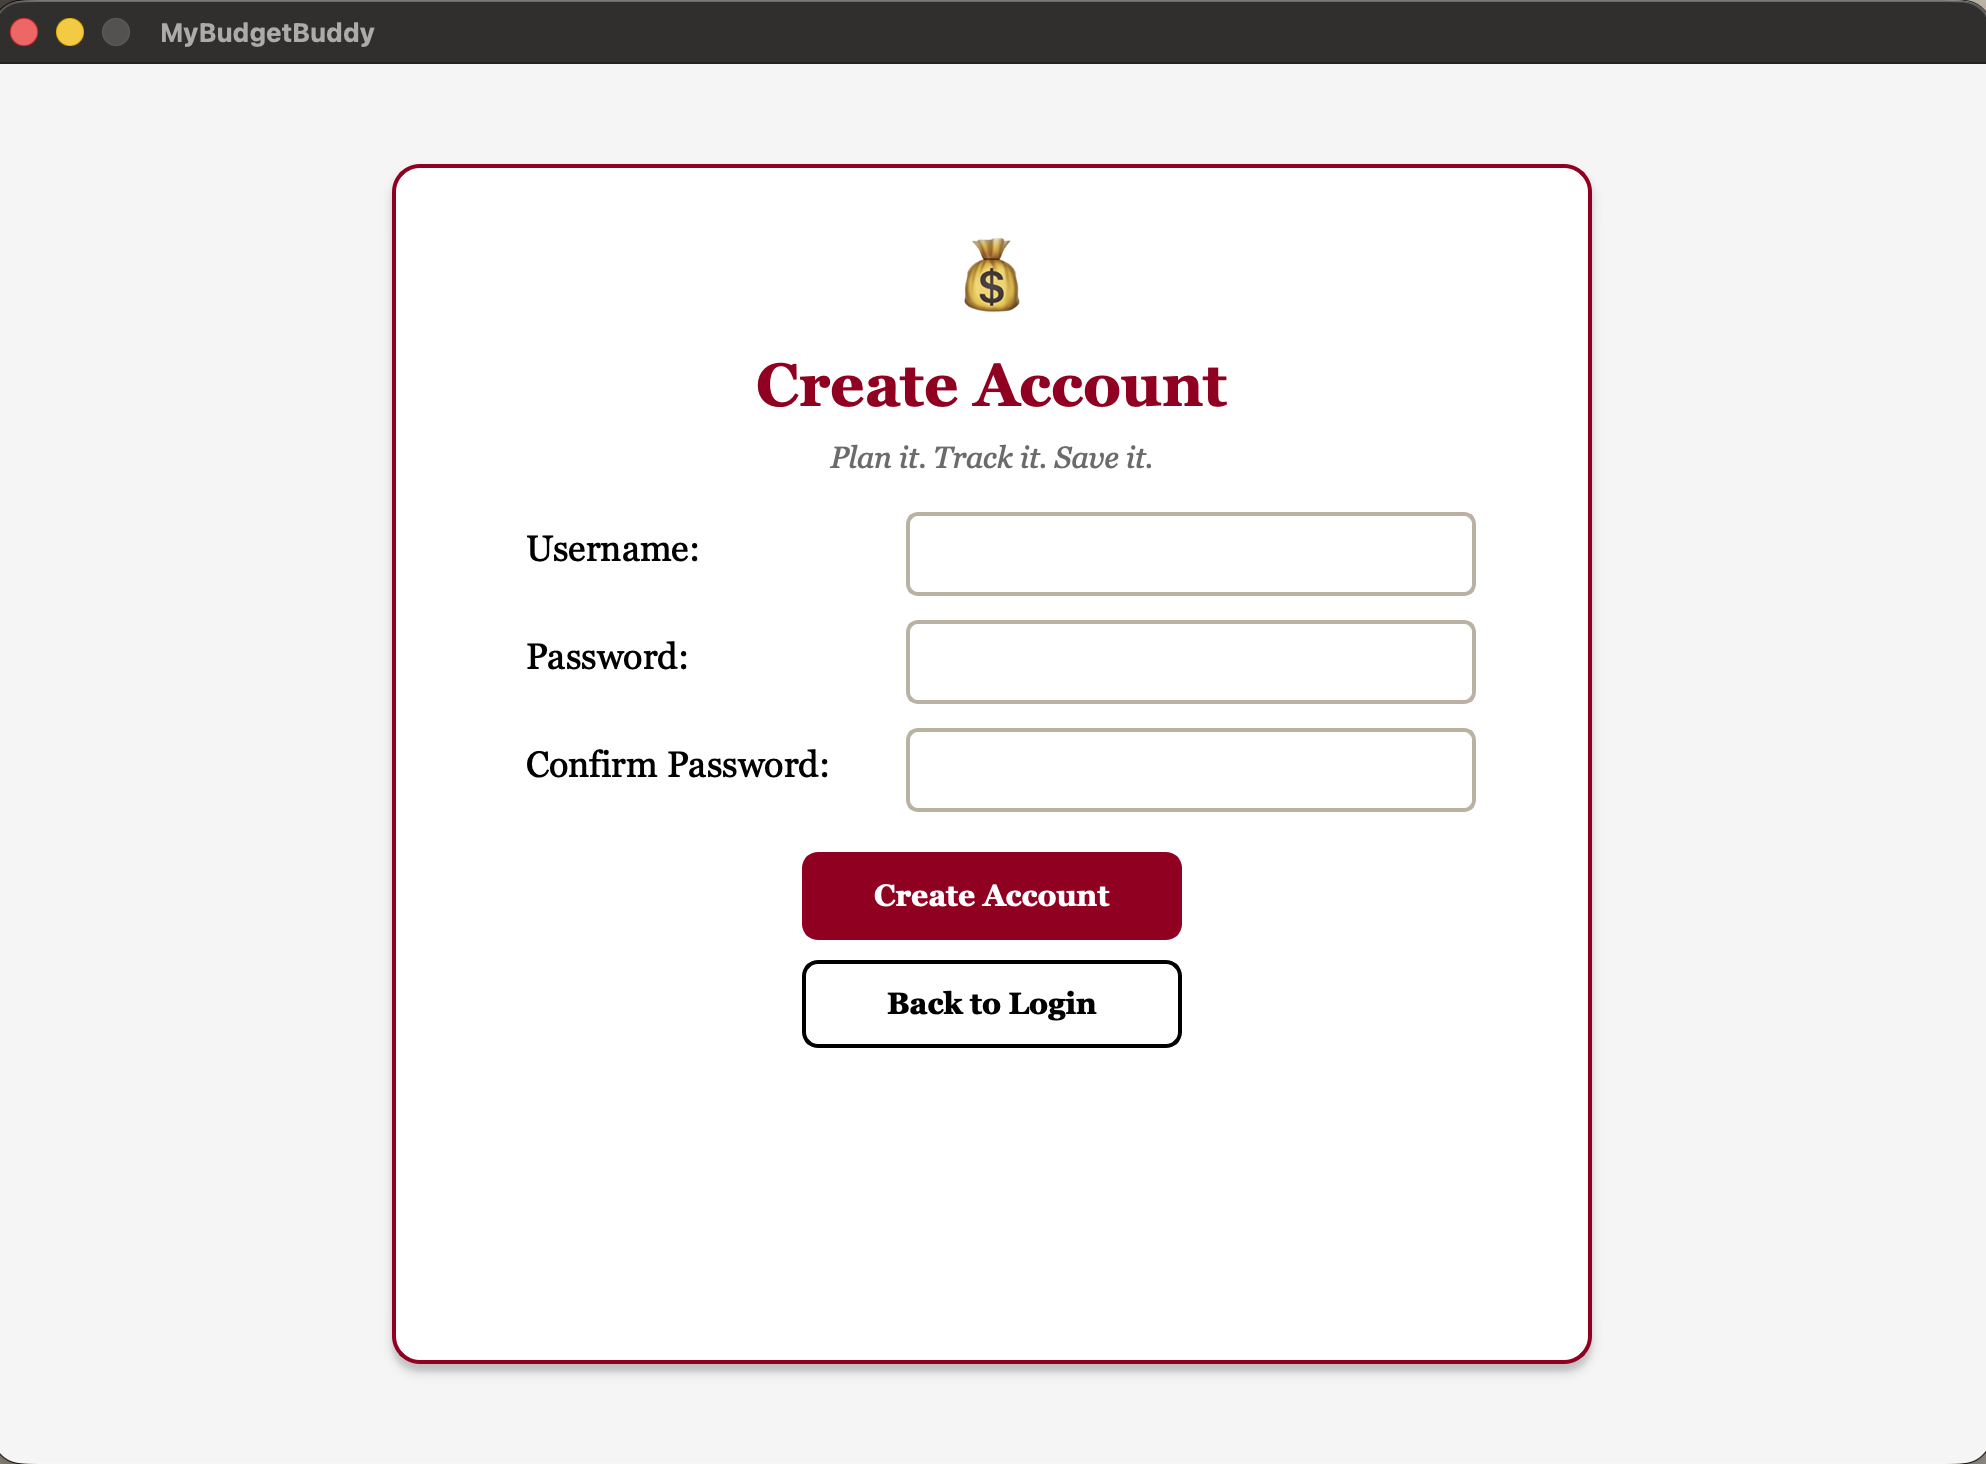
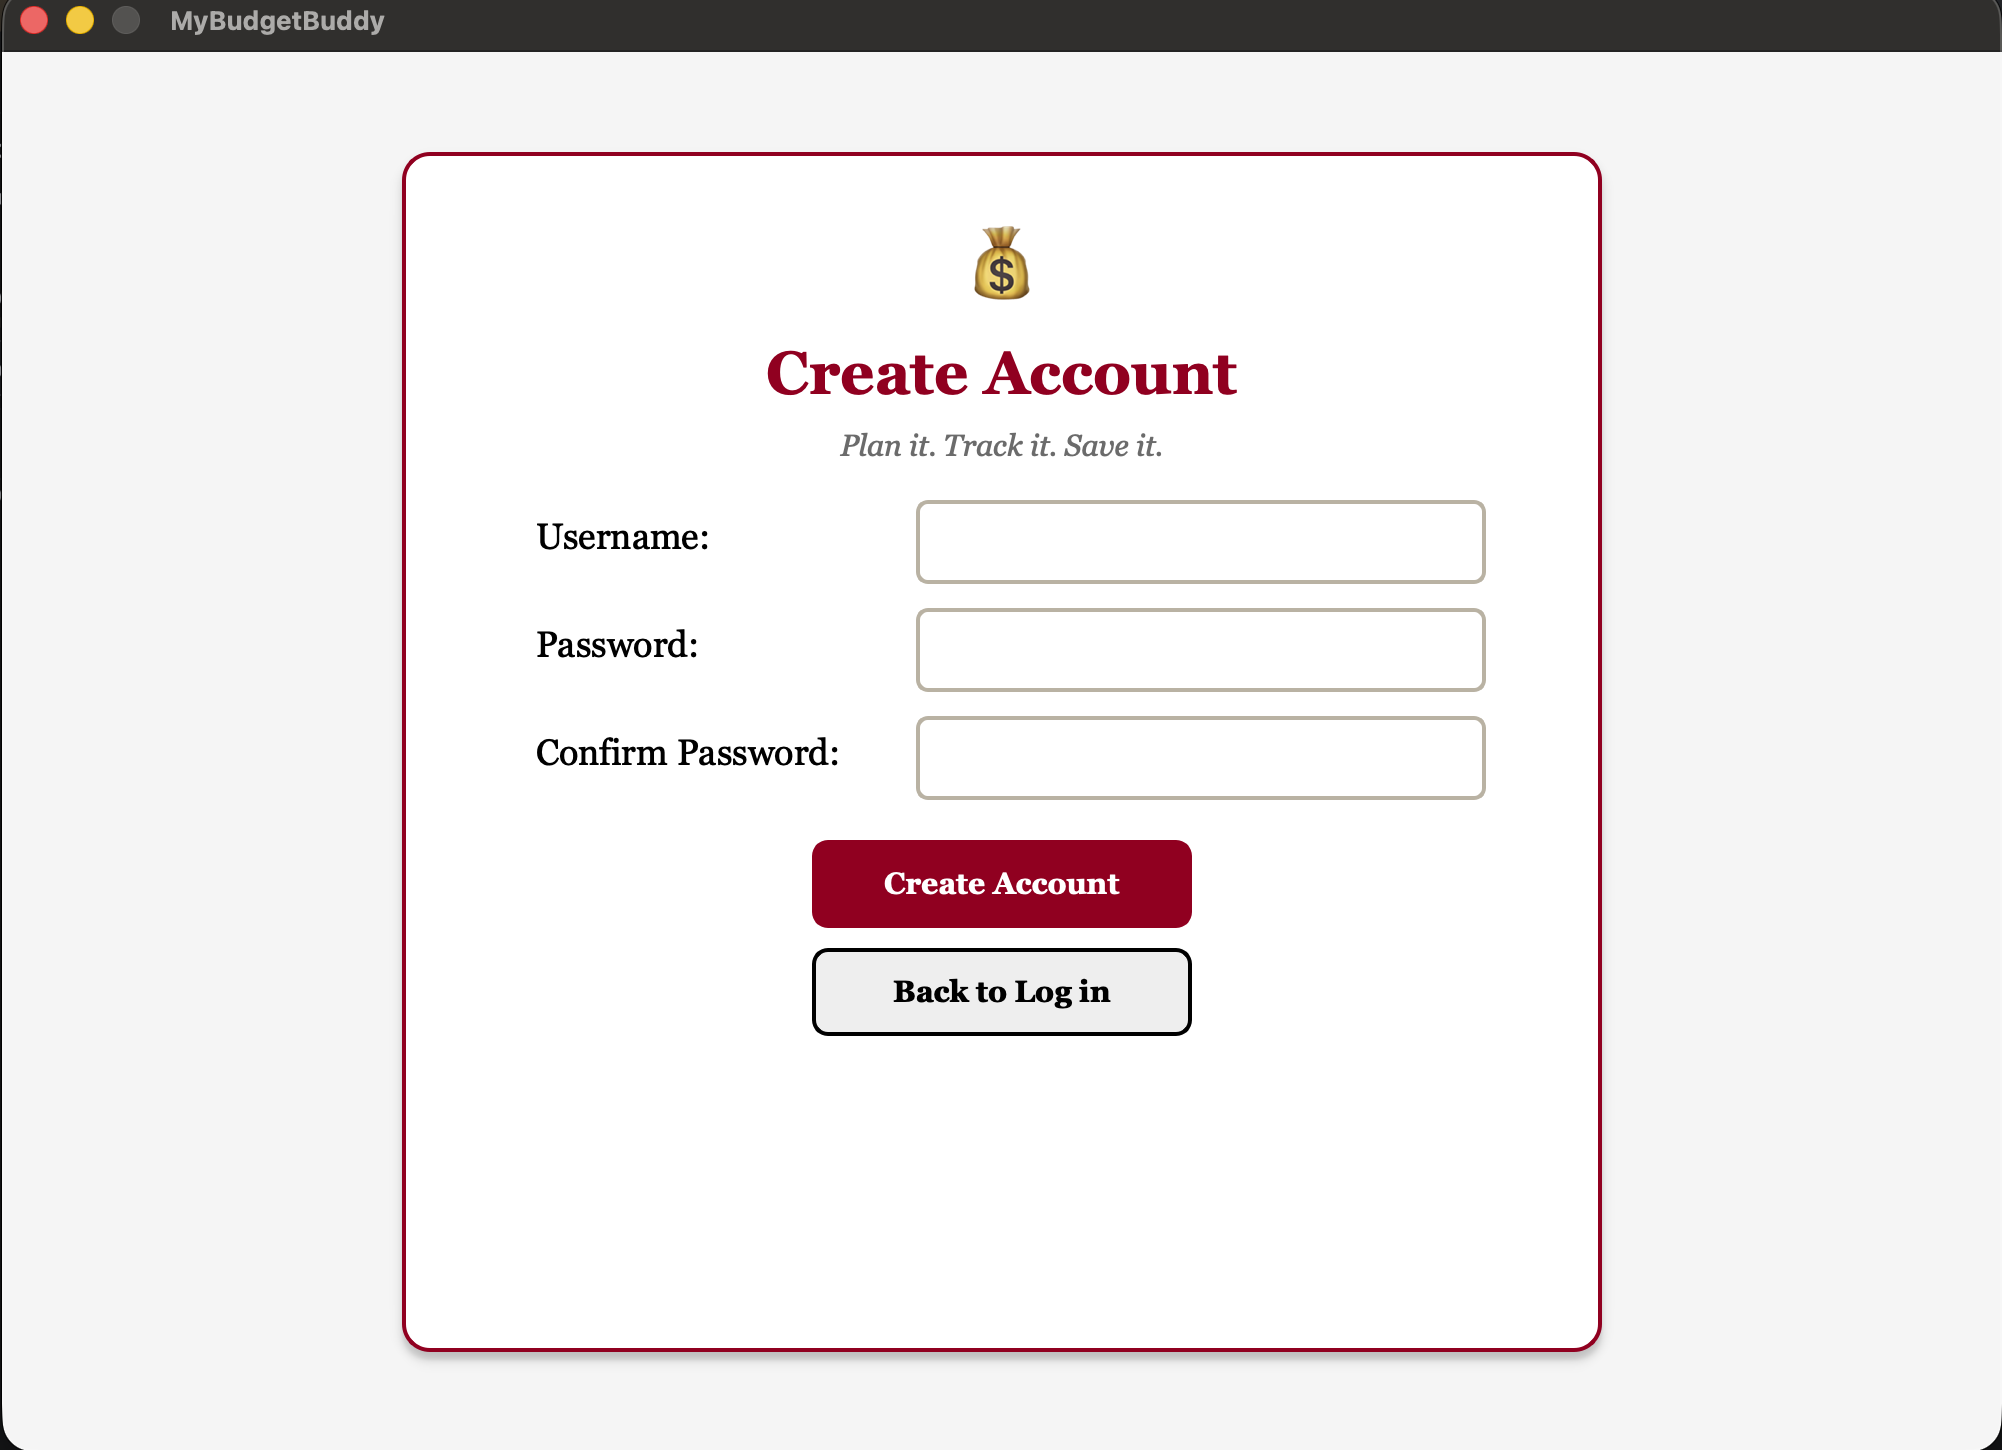
Update MyBudgetBuddy

diff --git a/mybudgetbuddy_qt/features/dashboard/view.py b/mybudgetbuddy_qt/features/dashboard/view.py
@@ -1,7 +1,8 @@
 from PyQt6.QtWidgets import (
     QMainWindow, QWidget, QVBoxLayout, QHBoxLayout, QLabel, QPushButton,
-    QFrame, QMessageBox, QDialog, QScrollArea, QProgressBar
+    QFrame, QMessageBox, QDialog, QScrollArea, QProgressBar, QGraphicsDropShadowEffect
 )
+from PyQt6.QtGui import QColor
 from PyQt6.QtCore import Qt
 
 from database.database import load_user_data, save_user_data
@@ -13,7 +14,7 @@ from features.expenses.service import add_expense, total, category_totals
 from features.expenses.view import ExpenseFormDialog, ExpenseEditDialog, ExpenseListDialog
 
 BURGUNDY, GOLD, CREAM, BG, WHITE, BLACK = "#900020", "#C9A227", "#FFF9EC", "#F5F5F5", "#FFFFFF", "#000000"
-RED, GREEN, ORANGE, GRAY, LINE = "#B42318", "#2E7D32", "#E08A00", "#6B6B6B", "#D8D0BE"
+RED, GREEN, ORANGE, GRAY, LINE, EDGE = "#B42318", "#2E7D32", "#E08A00", "#6B6B6B", "#D8D0BE", "#E8DFCB"
 FONT = "'Georgia'"
 NUMBER_WIDTH = 105
 BAR_WIDTH = 90
@@ -28,8 +29,8 @@ def usage_color(ratio):
 
 def menu_button_style():
     return f"""
-        QPushButton {{ background:{WHITE}; color:{BLACK}; border:2px solid {BURGUNDY}; border-left:8px solid {BURGUNDY}; border-radius:8px; font-family:{FONT}; font-size:16px; text-align:left; padding-left:14px; }}
-        QPushButton:hover {{ background:{BURGUNDY}; color:{WHITE}; border-left:8px solid {GOLD}; }}
+        QPushButton {{ background:{WHITE}; color:{BLACK}; border:1px solid {EDGE}; border-left:6px solid {BURGUNDY}; border-radius:12px; font-family:{FONT}; font-size:16px; text-align:left; padding-left:14px; }}
+        QPushButton:hover {{ background:{BURGUNDY}; color:{WHITE}; border-left:6px solid {GOLD}; }}
     """
 
 
@@ -66,9 +67,18 @@ def styled(text, css, align=None):
 
 def strip(height, color):
     frame = QFrame()
+    frame.setObjectName("strip")
     frame.setFixedHeight(height)
-    frame.setStyleSheet(f"background:{color};")
+    frame.setStyleSheet(f"QFrame#strip {{ background:{color}; }}")
     return frame
+
+
+def shadow(widget, blur=20, offset=4):
+    effect = QGraphicsDropShadowEffect()
+    effect.setBlurRadius(blur)
+    effect.setOffset(0, offset)
+    effect.setColor(QColor(0, 0, 0, 45))
+    widget.setGraphicsEffect(effect)
 
 
 def plain_label(text, size=15, bold=False, color=BLACK, align=None):
@@ -132,25 +142,28 @@ class App(QMainWindow):
     def dashboard(self):
         self.clear()
         page = QWidget()
-        page.setStyleSheet(f"background:{BG};color:{BLACK};")
+        page.setObjectName("page")
+        page.setStyleSheet(f"QWidget#page {{ background: qlineargradient(x1:0, y1:0, x2:0, y2:1, stop:0 {BG}, stop:1 #EFE6D6); }}")
         main = QVBoxLayout(page)
         main.setContentsMargins(0, 0, 0, 0)
         main.setSpacing(8)
 
-        header = strip(115, BURGUNDY)
+        header = strip(115, f"qlineargradient(x1:0, y1:0, x2:1, y2:0, stop:0 {BURGUNDY}, stop:1 #5E0014)")
         header_layout = QHBoxLayout(header)
         header_layout.setContentsMargins(35, 0, 30, 0)
-        header_layout.addWidget(styled("MyBudgetBuddy", f"color:{WHITE};font-size:32px;font-weight:bold;"))
+        header_layout.setSpacing(10)
+        header_layout.addWidget(styled("💵", "font-size:30px;"))
+        header_layout.addWidget(styled("MyBudgetBuddy", f"color:{WHITE};font-size:22px;font-weight:bold;"))
         header_layout.addStretch()
 
         logout = QPushButton("Log out")
-        logout.setFixedSize(250, 55)
-        logout.setStyleSheet(f"QPushButton {{ background:{WHITE}; color:{BLACK}; border:3px solid {BLACK}; font-size:16px; }} QPushButton:hover {{ background:#EEEEEE; color:{BLACK}; }}")
+        logout.setFixedSize(120, 40)
+        logout.setStyleSheet(f"QPushButton {{ background:{WHITE}; color:{BURGUNDY}; border:none; border-radius:20px; font-size:15px; font-weight:bold; }} QPushButton:hover {{ background:{CREAM}; color:{BURGUNDY}; }}")
         logout.clicked.connect(self.logout)
         header_layout.addWidget(logout)
         main.addWidget(header)
         main.addWidget(strip(4, GOLD))
-        main.addWidget(styled(f"{self.budget['month']} Dashboard", f"color:{BLACK};font-size:38px;font-weight:bold;padding:8px;", CENTER))
+        main.addWidget(styled(f"{self.budget['month']} Dashboard", f"color:{BLACK};font-family:'Freight Text Pro','Freight Text',Georgia,serif;font-size:38px;font-weight:600;font-style:italic;padding:8px;", CENTER))
 
         spent = total(self.expenses)
         left = remaining(self.budget, spent)
@@ -181,15 +194,19 @@ class App(QMainWindow):
             button.setFixedSize(290, 46)
             button.setStyleSheet(menu_button_style())
             button.clicked.connect(command)
+            shadow(button, 12, 2)
             menu.addWidget(button)
         return menu_widget
 
     def card(self, title, value):
         box = QFrame()
-        box.setFixedSize(270, 115)
-        box.setStyleSheet(f"background:{WHITE};color:{BLACK};border:1px solid {BLACK};")
+        box.setFixedSize(230, 95)
+        accent = {"Budget": BURGUNDY, "Expenses": GOLD, "Remaining": GREEN}.get(title, BURGUNDY)
+        box.setObjectName("stat")
+        box.setStyleSheet(f"QFrame#stat {{ background:{WHITE}; border:1px solid {EDGE}; border-top:5px solid {accent}; border-radius:14px; }}")
+        shadow(box)
         layout = QVBoxLayout(box)
-        layout.addWidget(styled(title, f"color:{BLACK};font-size:17px;", CENTER))
+        layout.addWidget(styled(title, f"color:{GRAY};font-size:16px;", CENTER))
         layout.addWidget(styled(f"₱{value:,.2f}", f"color:{BURGUNDY};font-size:25px;font-weight:bold;", CENTER))
         return box
 
@@ -214,7 +231,8 @@ class App(QMainWindow):
 
         panel = QFrame()
         panel.setObjectName("summary")
-        panel.setStyleSheet(f"QFrame#summary {{ background:{CREAM};border:2px solid {BURGUNDY};border-radius:12px; }}")
+        panel.setStyleSheet(f"QFrame#summary {{ background:{WHITE};border:1px solid {EDGE};border-radius:16px; }}")
+        shadow(panel, 24, 5)
         layout = QVBoxLayout(panel)
         layout.setContentsMargins(18, 10, 18, 10)
         layout.setSpacing(5)
@@ -315,7 +333,7 @@ class App(QMainWindow):
         setup_budget(self, self.set_budget, self.cancel_budget, self.budget, {expense["category"] for expense in self.expenses})
 
     def logout(self):
-        if QMessageBox.question(self, "Logout", "Do you want to log out?") == QMessageBox.StandardButton.Yes:
+        if QMessageBox.question(self, "Log out", "Do you want to log out?") == QMessageBox.StandardButton.Yes:
             self.save()
             self.current_user, self.budget, self.expenses = None, empty_budget(), []
             self.login()

diff --git a/mybudgetbuddy_qt/features/authentication/view.py b/mybudgetbuddy_qt/features/authentication/view.py
@@ -3,7 +3,7 @@ from PyQt6.QtGui import QColor
 from PyQt6.QtCore import Qt
 from .service import login, create_account
 
-BURGUNDY, DARK_BURGUNDY, BG, WHITE, BLACK, GRAY, LIGHT = "#900020", "#700018", "#F5F5F5", "#FFFFFF", "#000000", "#6B6B6B", "#EEEEEE"
+BURGUNDY, DARK_BURGUNDY, GOLD, CREAM, WHITE, BLACK, GRAY = "#900020", "#700018", "#C9A227", "#FFF9EC", "#FFFFFF", "#000000", "#6B6B6B"
 FONT = "'Georgia'"
 CENTER = Qt.AlignmentFlag.AlignCenter
 
@@ -17,9 +17,9 @@ def add_shadow(widget, blur=18, offset=4):
 
 
 def button_style(kind="primary"):
-    bg, fg, border, hover = {"primary": (BURGUNDY, WHITE, BURGUNDY, DARK_BURGUNDY), "secondary": (WHITE, BLACK, BLACK, LIGHT)}[kind]
+    bg, fg, border, hover = {"primary": (f"qlineargradient(x1:0, y1:0, x2:0, y2:1, stop:0 #B01030, stop:1 {BURGUNDY})", WHITE, BURGUNDY, DARK_BURGUNDY), "secondary": (WHITE, BURGUNDY, BURGUNDY, CREAM)}[kind]
     return f"""
-        QPushButton {{ background:{bg}; color:{fg}; border:2px solid {border}; border-radius:8px; font-family:{FONT}; font-size:15px; font-weight:bold; padding:6px 14px; }}
+        QPushButton {{ background:{bg}; color:{fg}; border:2px solid {border}; border-radius:22px; font-family:{FONT}; font-size:15px; font-weight:bold; padding:6px 14px; }}
         QPushButton:hover {{ background:{hover}; color:{fg}; }}
         QPushButton:disabled {{ background:#E4E0D6; color:#9A9A9A; border:2px solid #CFC9BA; }}
     """
@@ -27,8 +27,8 @@ def button_style(kind="primary"):
 
 def input_style(size=15):
     return f"""
-        QLineEdit {{ background:{WHITE}; color:{BLACK}; border:2px solid #B9B2A3; border-radius:6px; padding:4px 8px; font-family:{FONT}; font-size:{size}px; }}
-        QLineEdit:focus {{ border:2px solid {BURGUNDY}; }}
+        QLineEdit {{ background:{CREAM}; color:{BLACK}; border:2px solid #E3D3A0; border-radius:10px; padding:4px 10px; font-family:{FONT}; font-size:{size}px; }}
+        QLineEdit:focus {{ border:2px solid {BURGUNDY}; background:{WHITE}; }}
         QLineEdit:read-only {{ background:#F1ECE1; color:#444444; }}
     """
 
@@ -41,7 +41,7 @@ def make_label(text, css, align=CENTER):
 
 
 def field_label(text, width):
-    label = make_label(text, f"color: {BLACK}; font-family: {FONT}; font-size: 18px;", Qt.AlignmentFlag.AlignLeft | Qt.AlignmentFlag.AlignVCenter)
+    label = make_label(text, f"color: {BURGUNDY}; font-family: {FONT}; font-size: 18px; font-weight: bold;", Qt.AlignmentFlag.AlignLeft | Qt.AlignmentFlag.AlignVCenter)
     label.setFixedWidth(width)
     return label
 
@@ -73,22 +73,27 @@ def show_login(root, success):
     def build_card(width, height, title_text, title_size):
         page = QWidget()
         page.setObjectName("page")
-        page.setStyleSheet(f"QWidget#page {{ background-color: {BG}; }}")
+        page.setStyleSheet(f"QWidget#page {{ background: qlineargradient(x1:0, y1:0, x2:1, y2:1, stop:0 {BURGUNDY}, stop:0.6 #5E0014, stop:1 #2B000A); }}")
         layout = QVBoxLayout(page)
         layout.setAlignment(CENTER)
 
         box = QFrame()
         box.setObjectName("card")
         box.setFixedSize(width, height)
-        box.setStyleSheet(f"QFrame#card {{ background-color: {WHITE}; border: 2px solid {BURGUNDY}; border-radius: 14px; }}")
-        add_shadow(box)
+        box.setStyleSheet(f"QFrame#card {{ background-color: {WHITE}; border: 3px solid {GOLD}; border-radius: 20px; }}")
+        add_shadow(box, 40, 10)
 
         form = QVBoxLayout(box)
         form.setContentsMargins(55, 28, 55, 28)
         form.setSpacing(10)
-        form.addWidget(make_label("💰", "font-size: 40px;"))
+        coin = QLabel("💵")
+        coin.setAlignment(CENTER)
+        coin.setFixedSize(76, 76)
+        coin.setStyleSheet(f"background: qlineargradient(x1:0, y1:0, x2:1, y2:1, stop:0 #C2183F, stop:1 {DARK_BURGUNDY}); border: 3px solid {GOLD}; border-radius: 22px; font-size: 36px;")
+        add_shadow(coin, 20, 6)
+        form.addWidget(coin, alignment=CENTER)
         form.addWidget(make_label(title_text, f"color: {BURGUNDY}; font-family: {FONT}; font-size: {title_size}px; font-weight: bold;"))
-        form.addWidget(make_label("Plan it. Track it. Save it.", f"color: {GRAY}; font-family: {FONT}; font-size: 15px; font-style: italic;"))
+        form.addWidget(make_label("Plan it. Track it. Save it.", f"color: #9A7B1C; font-family: {FONT}; font-size: 15px; font-style: italic;"))
         form.addSpacing(8)
         layout.addWidget(box)
         return page, form
